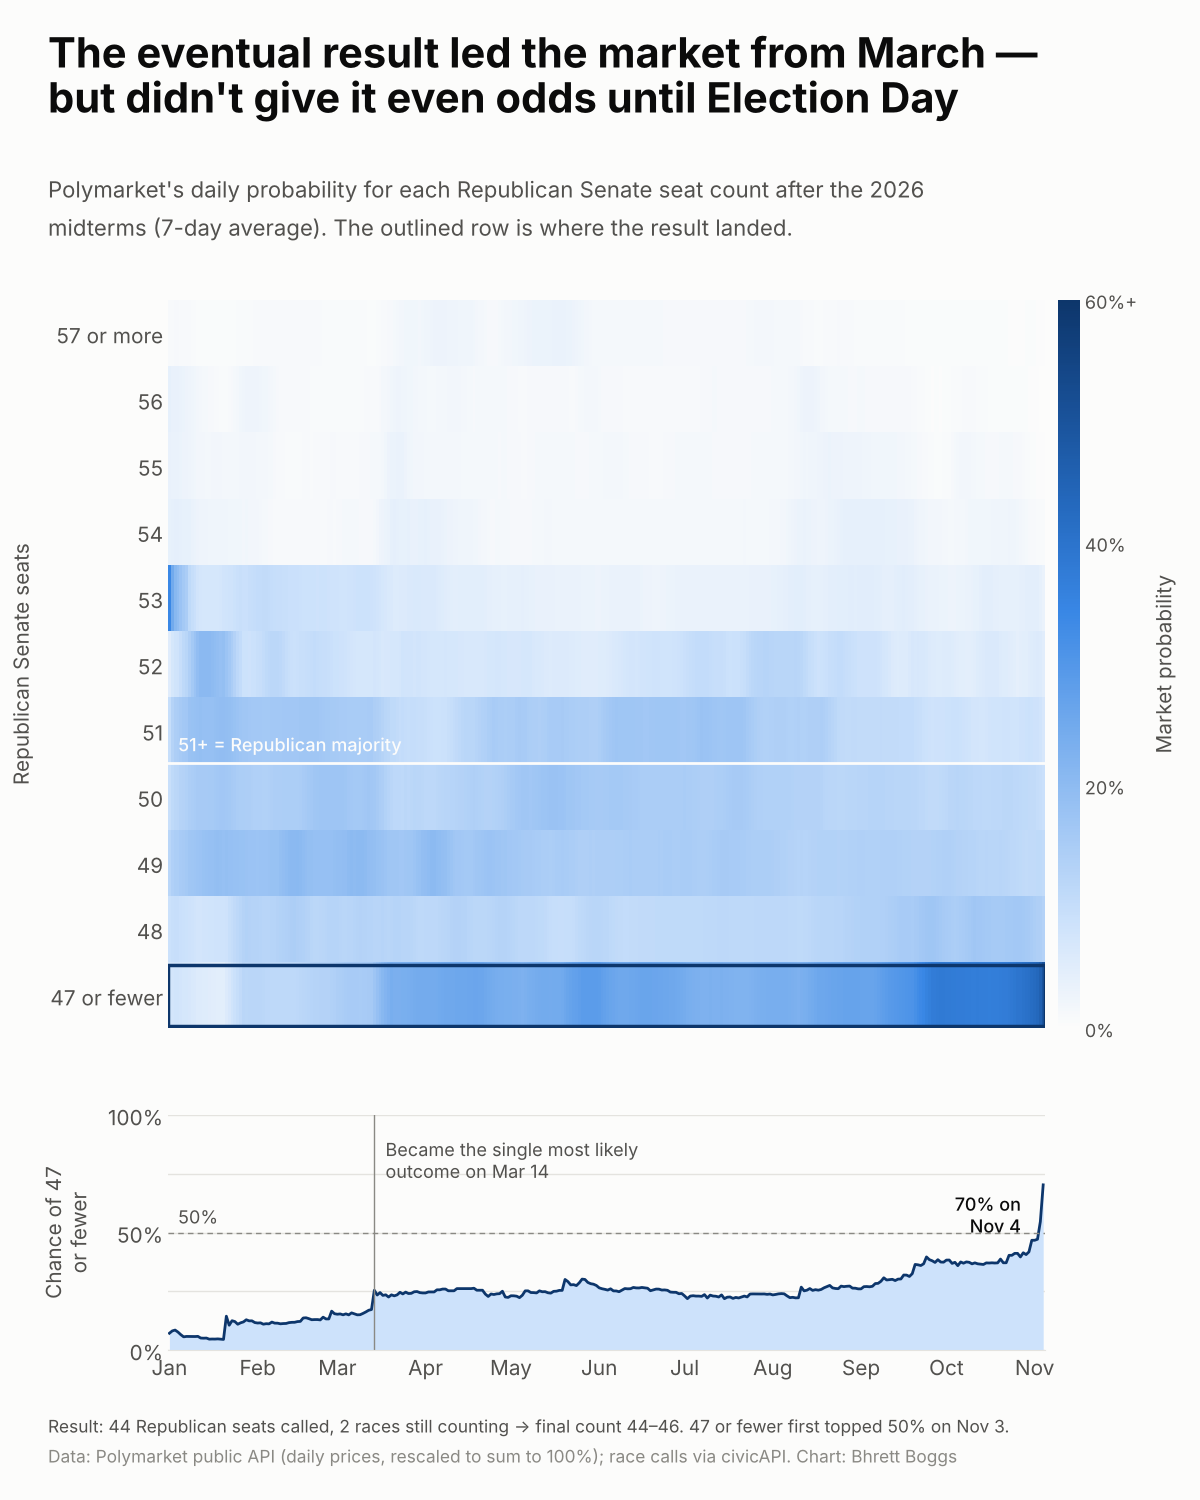
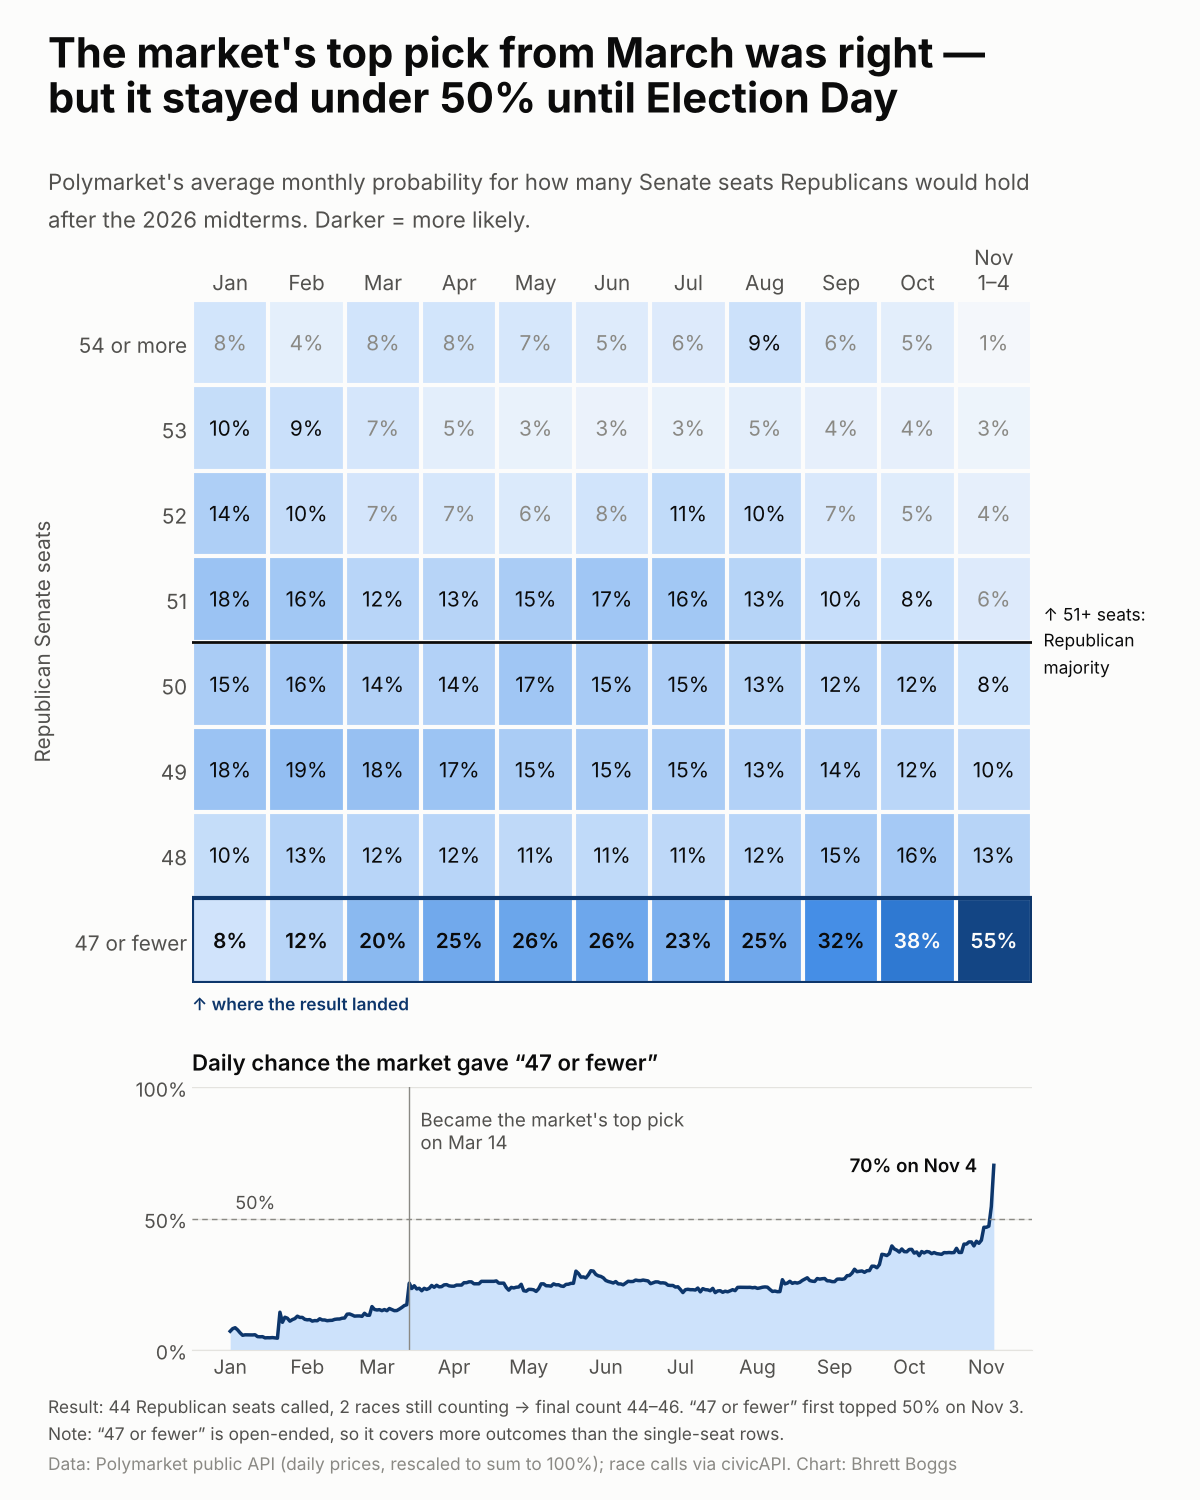
Make Senate seat heatmap more readable: monthly grid with labeled cells

diff --git a/viz/market_expectations/senate_seats_heatmap.py b/viz/market_expectations/senate_seats_heatmap.py
@@ -3,8 +3,8 @@
 Reads  data/clean/pm_senate_seats.csv  (daily probability per seat range, sums to 1)
 Writes viz/market_expectations/senate_seats_heatmap.png  (1200 x 1500, LinkedIn portrait)
 
-Top panel: one row per seat range, one column per day, darker = more likely.
-Bottom panel: the chance the market gave the range the result landed in.
+Top panel: monthly average probability per seat range, printed in each cell.
+Bottom panel: the daily chance the market gave the range the result landed in.
 """
 from pathlib import Path
 
@@ -36,83 +36,100 @@ plt.rcParams.update({
 })
 
 
+ROWS = [  # (label, columns summed) - 54+ merged: each of those counts sat near 0% all year
+    ("54 or more", ["54", "55", "56", "57+"]), ("53", ["53"]), ("52", ["52"]), ("51", ["51"]),
+    ("50", ["50"]), ("49", ["49"]), ("48", ["48"]), ("47 or fewer", ["≤47"]),
+]
+
+
 def main() -> None:
     s = pd.read_csv(CLEAN / "pm_senate_seats.csv", parse_dates=["date"], index_col="date")
-    # The first two weeks are the market opening at near-flat placeholder prices.
+    # Drop the market's first two weeks: near-flat placeholder prices at launch.
     s = s.loc["2026-01-01":]
     p_result = s[RESULT_RANGE]
-    # Heatmap shows a 7-day average to calm thin-market noise; the line and the dates use raw daily prices.
-    smooth = s.rolling(7, min_periods=1).mean()
     led_since = (s.idxmax(axis=1) != RESULT_RANGE)[::-1].idxmax() + pd.Timedelta(days=1)
     over_half = s.index[p_result > 0.5].min()
 
+    # Monthly averages, one row per seat range (top = most Republican seats).
+    grouped = pd.DataFrame({label: s[cols].sum(axis=1) for label, cols in ROWS})
+    monthly = grouped.resample("MS").mean()
+    col_labels = [f"{d:%b}" for d in monthly.index]
+    col_labels[-1] = f"Nov\n1–{s.index[-1].day}"
+    grid = monthly.T.values  # rows x months
+
     fig = plt.figure(figsize=(12, 15), dpi=100)
-    gs = fig.add_gridspec(2, 2, height_ratios=[3.1, 1], width_ratios=[40, 1],
-                          left=0.14, right=0.9, top=0.80, bottom=0.10, hspace=0.18, wspace=0.03)
-    ax = fig.add_subplot(gs[0, 0])
-    cax = fig.add_subplot(gs[0, 1])
-    ax2 = fig.add_subplot(gs[1, 0], sharex=ax)
+    gs = fig.add_gridspec(2, 1, height_ratios=[2.6, 1], left=0.16, right=0.86, top=0.80, bottom=0.10, hspace=0.22)
+    ax = fig.add_subplot(gs[0])
+    ax2 = fig.add_subplot(gs[1])
 
-    # --- heatmap -----------------------------------------------------------------
+    # --- monthly grid ---------------------------------------------------------------
     cmap = LinearSegmentedColormap.from_list("seq_blue", BLUE)
-    x = mdates.date2num(s.index.to_pydatetime())
-    edges_x = list(x - 0.5) + [x[-1] + 0.5]
-    rows = list(s.columns)  # ≤47 ... 57+, bottom to top
-    mesh = ax.pcolormesh(edges_x, range(len(rows) + 1), smooth.T.values, cmap=cmap, vmin=0, vmax=0.6,
-                         shading="flat", rasterized=True)
-    ax.set_yticks([i + 0.5 for i in range(len(rows))])
-    ax.set_yticklabels(["47 or fewer" if r == "≤47" else ("57 or more" if r == "57+" else r) for r in rows])
-    ax.set_ylabel("Republican Senate seats", labelpad=12)
+    nrow, ncol = grid.shape
+    ax.imshow(grid, cmap=cmap, vmin=0, vmax=0.6, aspect="auto")
+    for i in range(nrow):
+        for j in range(ncol):
+            v = grid[i, j]
+            ax.text(j, i, f"{v:.0%}" if v >= 0.005 else "<1%", ha="center", va="center", fontsize=15,
+                    color=SURFACE if v >= 0.33 else (INK if v >= 0.08 else MUTED),
+                    weight="semibold" if i == nrow - 1 else "normal")
+    # White gaps between cells.
+    for i in range(nrow + 1):
+        ax.axhline(i - 0.5, color=SURFACE, lw=3)
+    for j in range(ncol + 1):
+        ax.axvline(j - 0.5, color=SURFACE, lw=3)
+    ax.set_xticks(range(ncol))
+    ax.set_xticklabels(col_labels, fontsize=15)
+    ax.xaxis.tick_top()
+    ax.set_yticks(range(nrow))
+    ax.set_yticklabels([label for label, _ in ROWS], fontsize=15)
     ax.tick_params(length=0)
-    for side in ("top", "right", "left", "bottom"):
-        ax.spines[side].set_visible(False)
-    # 50 seats: the line between majority and minority (VP breaks a 50-50 tie).
-    y50 = rows.index("50") + 1
-    ax.axhline(y50, color=SURFACE, lw=2)
-    ax.text(x[3], y50 + 0.12, "51+ = Republican majority", color=SURFACE, fontsize=13, va="bottom", weight="medium")
-    # Outline the row the result landed in.
-    ax.add_patch(plt.Rectangle((edges_x[0], 0.04), edges_x[-1] - edges_x[0], 0.92, fill=False,
-                               ec=ACCENT, lw=2.5, zorder=3))
+    for side in ax.spines.values():
+        side.set_visible(False)
+    ax.set_ylabel("Republican Senate seats", labelpad=14, fontsize=15)
+    # Majority line between 50 and 51.
+    y_major = [label for label, _ in ROWS].index("51") + 0.5
+    ax.axhline(y_major, color=INK, lw=2)
+    ax.text(ncol - 0.35, y_major, "↑ 51+ seats:\nRepublican\nmajority", ha="left", va="center",
+            fontsize=12.5, color=INK, linespacing=1.3)
+    # Outline the result row.
+    ax.add_patch(plt.Rectangle((-0.5, nrow - 1.5), ncol, 1, fill=False, ec=ACCENT, lw=3, zorder=4))
+    ax.text(-0.5, nrow - 0.38, "↑ where the result landed", ha="left", va="top", fontsize=12.5,
+            color=ACCENT, weight="semibold", transform=ax.transData)
 
-    cb = fig.colorbar(mesh, cax=cax, ticks=[0, 0.2, 0.4, 0.6])
-    cb.ax.set_yticklabels(["0%", "20%", "40%", "60%+"])
-    cb.outline.set_visible(False)
-    cb.ax.tick_params(length=0, labelsize=13)
-    cb.set_label("Market probability", color=INK_2, labelpad=10)
-
-    # --- probability of the eventual answer ---------------------------------------
+    # --- daily chance of the eventual answer ----------------------------------------
     ax2.fill_between(s.index, p_result, color="#cde2fb", lw=0)
-    ax2.plot(s.index, p_result, color=ACCENT, lw=2)
+    ax2.plot(s.index, p_result, color=ACCENT, lw=2.5)
     ax2.axhline(0.5, color=MUTED, lw=1, ls=(0, (4, 3)))
-    ax2.text(s.index[3], 0.52, "50%", color=INK_2, fontsize=13, va="bottom")
+    ax2.text(s.index[2], 0.52, "50%", color=INK_2, fontsize=13, va="bottom")
     ax2.set_ylim(0, 1)
-    ax2.set_yticks([0, 0.25, 0.5, 0.75, 1])
-    ax2.set_yticklabels(["0%", "", "50%", "", "100%"])
+    ax2.set_yticks([0, 0.5, 1])
+    ax2.set_yticklabels(["0%", "50%", "100%"])
     ax2.grid(axis="y", color=GRID, lw=1)
     ax2.set_axisbelow(True)
     for side in ("top", "right", "left"):
         ax2.spines[side].set_visible(False)
-    ax2.tick_params(length=0)
-    ax2.set_ylabel("Chance of 47\nor fewer", labelpad=12)
+    ax2.tick_params(length=0, labelsize=14)
+    ax2.set_title("Daily chance the market gave “47 or fewer”", loc="left", fontsize=16, weight="semibold", pad=12)
     last = s.index[-1]
-    ax2.annotate(f"{p_result.iloc[-1]:.0%} on\n{last:%b %-d}", (last, p_result.iloc[-1]), xytext=(-16, -6),
-                 textcoords="offset points", ha="right", va="top", fontsize=13, color=INK, weight="medium")
+    ax2.annotate(f"{p_result.iloc[-1]:.0%} on {last:%b %-d}", (last, p_result.iloc[-1]), xytext=(-12, 0),
+                 textcoords="offset points", ha="right", va="center", fontsize=13.5, color=INK, weight="semibold")
     ax2.axvline(led_since, color=MUTED, lw=1)
-    ax2.annotate(f"Became the single most likely\noutcome on {led_since:%b %-d}", (led_since, 0.9),
-                 xytext=(8, 0), textcoords="offset points", fontsize=13, color=INK_2, va="top")
+    ax2.annotate(f"Became the market's top pick\non {led_since:%b %-d}", (led_since, 0.92),
+                 xytext=(8, 0), textcoords="offset points", fontsize=13.5, color=INK_2, va="top")
     ax2.xaxis.set_major_locator(mdates.MonthLocator())
     ax2.xaxis.set_major_formatter(mdates.DateFormatter("%b"))
-    plt.setp(ax.get_xticklabels(), visible=False)
 
-    # --- titles and footer --------------------------------------------------------
-    fig.text(0.04, 0.955, "The eventual result led the market from March —", fontsize=30, weight="bold")
-    fig.text(0.04, 0.925, "but didn't give it even odds until Election Day", fontsize=30, weight="bold")
-    fig.text(0.04, 0.885, "Polymarket's daily probability for each Republican Senate seat count after the 2026\n"
-                          "midterms (7-day average). The outlined row is where the result landed.", fontsize=16, color=INK_2,
-             va="top", linespacing=1.4)
-    fig.text(0.04, 0.045, RESULT_NOTE + f". 47 or fewer first topped 50% on {over_half:%b %-d}.",
+    # --- titles and footer ----------------------------------------------------------
+    fig.text(0.04, 0.955, "The market's top pick from March was right —", fontsize=30, weight="bold")
+    fig.text(0.04, 0.925, "but it stayed under 50% until Election Day", fontsize=30, weight="bold")
+    fig.text(0.04, 0.89, "Polymarket's average monthly probability for how many Senate seats Republicans would hold\n"
+                         "after the 2026 midterms. Darker = more likely.", fontsize=16, color=INK_2, va="top",
+             linespacing=1.4)
+    fig.text(0.04, 0.058, RESULT_NOTE + f". “47 or fewer” first topped 50% on {over_half:%b %-d}.",
              fontsize=12.5, color=INK_2)
-    fig.text(0.04, 0.025, "Data: Polymarket public API (daily prices, rescaled to sum to 100%); race calls via civicAPI. "
+    fig.text(0.04, 0.040, "Note: “47 or fewer” is open-ended, so it covers more outcomes than the single-seat rows.",
+             fontsize=12.5, color=INK_2)
+    fig.text(0.04, 0.020, "Data: Polymarket public API (daily prices, rescaled to sum to 100%); race calls via civicAPI. "
                           "Chart: Bhrett Boggs", fontsize=12.5, color=MUTED)
 
     out = HERE / "senate_seats_heatmap.png"
